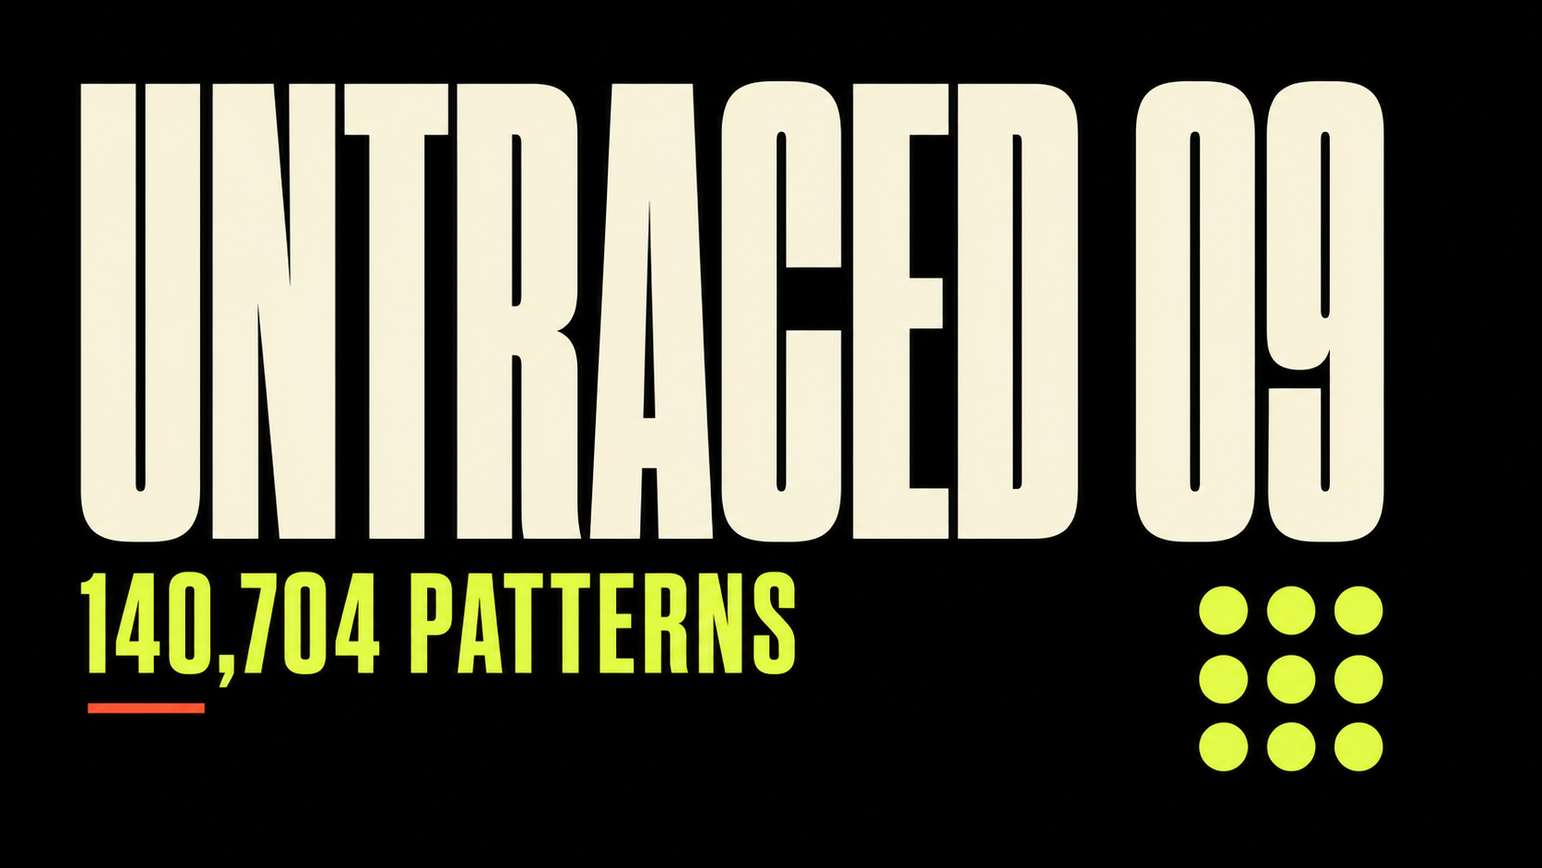
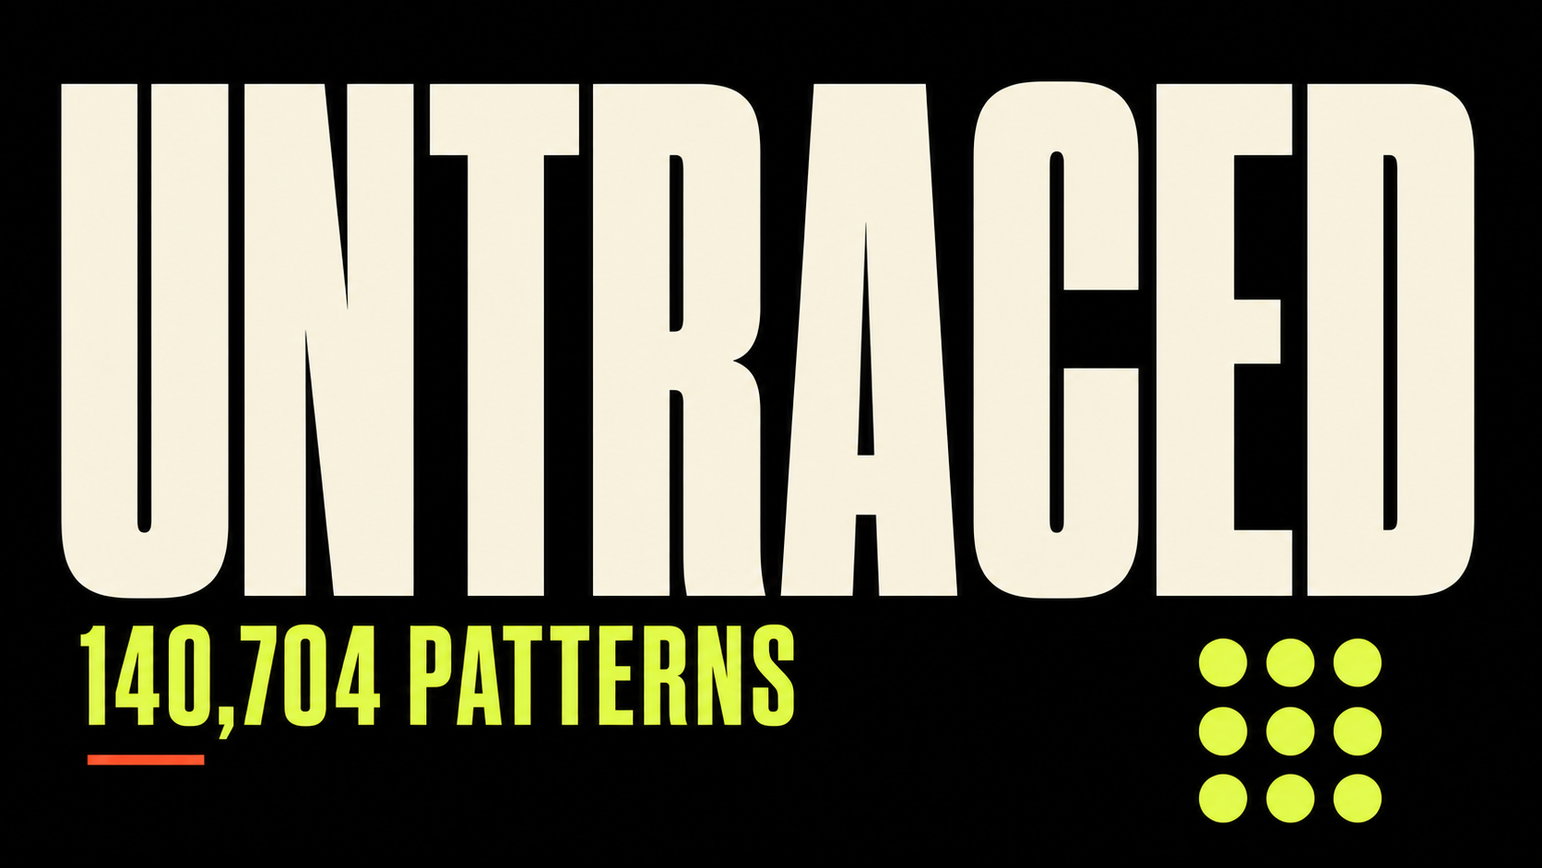
more stuff

Changed region(s): [[0.0311, 0.0925, 0.9641, 0.9554]]

diff --git a/src/components/PatternGame.tsx b/src/components/PatternGame.tsx
@@ -5,6 +5,7 @@ import ShareButton from "./ShareButton";
 import { crossedNodes,formatPercent,requiredMidpoint,type NodeId } from "@/lib/patterns";
 import type { Progress,SubmitResult } from "@/lib/types";
 import styles from "@/app/page.module.css";
+import componentStyles from "./PatternGame.module.css";
 const nodes=[1,2,3,4,5,6,7,8,9] as NodeId[];const pos=(n:number)=>({x:((n-1)%3)*100+50,y:Math.floor((n-1)/3)*100+50});
 function identity(){let id=localStorage.getItem("untraced-player-id");if(!id){id=crypto.randomUUID();localStorage.setItem("untraced-player-id",id)}return id}
 export default function PatternGame({initialProgress}:Readonly<{initialProgress:Progress}>){
@@ -21,9 +22,9 @@ export default function PatternGame({initialProgress}:Readonly<{initialProgress:
  const reset=()=>{routeRef.current=[];setRoute([]);setPointer(null);setResult(null);setFailed(false);setStatus("Start on any dot.")};const points=route.map(n=>pos(n));
  return <main className={styles.shell}><Header/><section className={styles.game} aria-labelledby="game-title">
   <div className={styles.progressBlock}><p className={styles.eyebrow}>{progress.completedAt?"Complete":"Found worldwide"}</p><p className={styles.count}><strong>{progress.discovered.toLocaleString()}</strong><span> / 140,704</span></p><p className={styles.percent}>{formatPercent(progress.discovered)}</p><div className={styles.traceProgress} style={{"--progress":`${progress.discovered/140704*100}%`} as React.CSSProperties} role="progressbar" aria-valuemin={0} aria-valuemax={140704} aria-valuenow={progress.discovered}/></div>
-  <div className={styles.instrument}><div className={styles.prompt}>{result?<><p className={styles.resultLabel}>{result.isNewDiscovery?"NEW":"ALREADY FOUND"}</p><h1 id="game-title">{result.isNewDiscovery?`You found #${result.ordinal?.toLocaleString()}`:`Seen ${result.submissionCount.toLocaleString()} ${result.submissionCount===1?"time":"times"}`}</h1><p>{result.isNewDiscovery?"Nobody entered this pattern before you.":result.personallySubmittedBefore?"You’ve entered this one before.":`First entered ${new Intl.DateTimeFormat(undefined,{dateStyle:"medium",timeStyle:"short"}).format(new Date(result.firstDiscoveredAt))}.`}</p></>:<><h1 id="game-title">Draw all nine.</h1><p>Release to check your pattern.</p></>}</div>
-   <div ref={surface} className={`${styles.grid} ${sending?styles.sending:""}`} role="application" aria-label="Nine-dot pattern grid" onPointerMove={move} onPointerUp={end} onPointerCancel={end} onContextMenu={e=>e.preventDefault()}><svg viewBox="0 0 300 300" aria-hidden="true"><polyline points={points.map(p=>`${p.x},${p.y}`).join(" ")}/>{drawing&&pointer&&points.length>0&&<line x1={points.at(-1)!.x} y1={points.at(-1)!.y} x2={pointer.x} y2={pointer.y}/>}</svg>{nodes.map(id=><button key={id} type="button" className={route.includes(id)?styles.dotActive:styles.dot} aria-label={`Dot ${id}${route.includes(id)?`, position ${route.indexOf(id)+1}`:""}`} onPointerDown={e=>start(e,id)} onClick={e=>{if(!drawing&&e.detail===0)keyboard(id)}}><span>{route.indexOf(id)+1||""}</span></button>)}</div>
-   <div className={styles.actions}>{result?<><button className={styles.primary} onClick={reset}>Go again</button><ShareButton shareId={result.shareId!} isNew={result.isNewDiscovery} ordinal={result.ordinal}/></>:failed?<><button className={styles.primary} disabled={sending} onClick={()=>void submitRoute()}>Retry</button><button onClick={reset}>Clear</button></>:route.length===9&&!drawing?<button className={styles.primary} disabled={sending} onClick={()=>void submitRoute()}>{sending?"Checking…":"Submit"}</button>:route.length>0&&!drawing?<button onClick={reset}>Clear</button>:null}<button aria-pressed={muted} onClick={()=>{const next=!muted;setMuted(next);localStorage.setItem("untraced-muted",String(next))}}>{muted?"Sound off":"Sound on"}</button></div>
+  <div className={styles.instrument}><div className={styles.prompt}>{result?<><p className={styles.resultLabel}>{result.isNewDiscovery?"NEW":"ALREADY FOUND"}</p><h1 id="game-title">{result.isNewDiscovery?`You found #${result.ordinal?.toLocaleString()}`:`Seen ${result.submissionCount.toLocaleString()} ${result.submissionCount===1?"time":"times"}`}</h1><p>{result.isNewDiscovery?"Nobody entered this pattern before you.":result.personallySubmittedBefore?"You’ve entered this one before.":`First entered ${new Intl.DateTimeFormat(undefined,{dateStyle:"medium",timeStyle:"short"}).format(new Date(result.firstDiscoveredAt))}.`}</p></>:<><h1 id="game-title">Draw a line through all nine.</h1><p>Release to check your pattern.</p></>}</div>
+   <div ref={surface} className={`${styles.grid} ${componentStyles.cleanGrid} ${sending?styles.sending:""}`} role="application" aria-label="Nine-dot pattern grid" onPointerMove={move} onPointerUp={end} onPointerCancel={end} onContextMenu={e=>e.preventDefault()}><svg viewBox="0 0 300 300" aria-hidden="true"><polyline points={points.map(p=>`${p.x},${p.y}`).join(" ")}/>{drawing&&pointer&&points.length>0&&<line x1={points.at(-1)!.x} y1={points.at(-1)!.y} x2={pointer.x} y2={pointer.y}/>}</svg>{nodes.map(id=><button key={id} type="button" className={route.includes(id)?styles.dotActive:styles.dot} aria-label={`Dot ${id}${route.includes(id)?`, position ${route.indexOf(id)+1}`:""}`} onPointerDown={e=>start(e,id)} onClick={e=>{if(!drawing&&e.detail===0)keyboard(id)}}><span>{route.indexOf(id)+1||""}</span></button>)}</div>
+   <div className={styles.actions}>{result?<><button className={styles.primary} onClick={reset}>Go again</button><ShareButton shareId={result.shareId!} route={route} isNew={result.isNewDiscovery} ordinal={result.ordinal} submissionCount={result.submissionCount} streak={result.personal.currentStreak} isRepeat={result.personallySubmittedBefore}/></>:failed?<><button className={styles.primary} disabled={sending} onClick={()=>void submitRoute()}>Retry</button><button onClick={reset}>Clear</button></>:route.length===9&&!drawing?<button className={styles.primary} disabled={sending} onClick={()=>void submitRoute()}>{sending?"Checking…":"Submit"}</button>:route.length>0&&!drawing?<button onClick={reset}>Clear</button>:null}<button aria-pressed={muted} onClick={()=>{const next=!muted;setMuted(next);localStorage.setItem("untraced-muted",String(next))}}>{muted?"Sound off":"Sound on"}</button></div>
    <p className="srOnly" aria-live="polite">{status}</p>
   </div>
   <aside className={styles.note}><span>Still missing</span><strong>{progress.discovered===0?"All 140,704":progress.discovered===140704?"Nothing":(140704-progress.discovered).toLocaleString()}</strong><p>Visit each dot once. Crossed midpoints register automatically. Reversing a pattern counts as a different answer.</p></aside>

diff --git a/src/components/ShareButton.tsx b/src/components/ShareButton.tsx
@@ -1,3 +1,8 @@
 "use client";
-import { useState } from "react";
-export default function ShareButton({shareId,isNew,ordinal}:Readonly<{shareId:string;isNew:boolean;ordinal:number|null}>){const[copied,setCopied]=useState(false);const share=async()=>{const url=`${location.origin}/s/${shareId}`,text=isNew?`I found pattern #${ordinal?.toLocaleString()} on UNTRACED 09.`:"My UNTRACED 09 result.";try{if(navigator.share)await navigator.share({title:"UNTRACED 09",text,url});else{await navigator.clipboard.writeText(url);setCopied(true);setTimeout(()=>setCopied(false),1800)}}catch{}};return <button onClick={()=>void share()}>{copied?"Link copied":"Share result"}</button>}
+import { useEffect,useRef,useState } from "react";
+import Image from "next/image";
+import styles from "./ShareButton.module.css";
+type Props={shareId:string;route:number[];isNew:boolean;ordinal:number|null;submissionCount:number;streak:number;isRepeat:boolean};
+const keys=["1⃣","2⃣","3⃣","4⃣","5⃣","6⃣","7⃣","8⃣","9⃣"];
+function shareText(p:Props){const order=new Map(p.route.map((dot,index)=>[dot,keys[index]]));const grid=[1,2,3,4,5,6,7,8,9].map(dot=>order.get(dot)??"▫").reduce<string[]>((rows,item,index)=>{const row=Math.floor(index/3);rows[row]=(rows[row]??"")+(index%3?"  ":"")+item;return rows},[]).join("\n");const achievements=[p.isNew?`🏆 First finder · #${p.ordinal?.toLocaleString()}`:`🔎 Seen ${p.submissionCount.toLocaleString()} ${p.submissionCount===1?"time":"times"}`,p.streak>1?`🔥 ${p.streak}-find streak`:null,p.isRepeat?"↩ Personal repeat":null].filter(Boolean).join(" · ");return `UNTRACED\n\n${grid}\n\n${achievements}\n\n${location.origin}/s/${p.shareId}`}
+export default function ShareButton(props:Readonly<Props>){const[open,setOpen]=useState(false),[notice,setNotice]=useState("");const dialog=useRef<HTMLDialogElement>(null);useEffect(()=>{const el=dialog.current;if(open&&!el?.open)el?.showModal();if(!open&&el?.open)el.close()},[open]);const flash=(message:string)=>{setNotice(message);setTimeout(()=>setNotice(""),1800)};const copyText=async()=>{try{await navigator.clipboard.writeText(shareText(props));flash("Text copied")}catch{flash("Couldn’t copy")}};const copyImage=async()=>{try{const response=await fetch(`/api/share/${props.shareId}/image`),blob=await response.blob();if(typeof ClipboardItem!=="undefined"&&navigator.clipboard?.write){await navigator.clipboard.write([new ClipboardItem({"image/png":blob})]);flash("Image copied");return}const url=URL.createObjectURL(blob),a=document.createElement("a");a.href=url;a.download="untraced-pattern.png";a.click();URL.revokeObjectURL(url);flash("Image downloaded")}catch{flash("Couldn’t copy image")}};return <><button onClick={()=>setOpen(true)}>Share result</button><dialog ref={dialog} className={styles.dialog} onClose={()=>setOpen(false)} onClick={e=>{if(e.target===e.currentTarget)setOpen(false)}} aria-labelledby="share-title"><div className={styles.card}><button className={styles.close} aria-label="Close share options" onClick={()=>setOpen(false)}>×</button><p className={styles.eyebrow} id="share-title">Share result</p><div className={styles.imagePreview}><Image unoptimized width={1200} height={630} src={`/api/share/${props.shareId}/image`} alt="Share image preview of this UNTRACED pattern"/></div><div className={styles.actions}><button className={styles.action} onClick={()=>void copyText()}>Copy text</button><button className={styles.action} onClick={()=>void copyImage()}>Copy image</button></div><p className={styles.notice} aria-live="polite">{notice}</p></div></dialog></>}

diff --git a/src/app/s/[id]/page.tsx b/src/app/s/[id]/page.tsx
@@ -1,4 +1,4 @@
 import type { Metadata } from "next";import Link from "next/link";import { notFound } from "next/navigation";import Header from "@/components/Header";import MiniPattern from "@/components/MiniPattern";import { getSharedResult } from "@/server/shares";import content from "../../content.module.css";import styles from "./share.module.css";
 type Props={params:Promise<{id:string}>};export const dynamic="force-dynamic";
-export async function generateMetadata({params}:Props):Promise<Metadata>{const{id}=await params,result=await getSharedResult(id);if(!result)return{title:"Result not found",openGraph:{images:[]},twitter:{images:[]}};const description=result.wasFirstDiscovery?`First to find pattern #${result.discoveryOrdinal.toLocaleString()} on UNTRACED 09.`:`This pattern had been entered ${result.routeSubmissionCount.toLocaleString()} times.`;return{title:result.wasFirstDiscovery?`Pattern #${result.discoveryOrdinal.toLocaleString()}`:"Shared result",description,openGraph:{title:"UNTRACED 09",description,images:[]},twitter:{card:"summary",title:"UNTRACED 09",description,images:[]}}}
+export async function generateMetadata({params}:Props):Promise<Metadata>{const{id}=await params,result=await getSharedResult(id);if(!result)return{title:"Result not found",openGraph:{images:[]},twitter:{images:[]}};const description=result.wasFirstDiscovery?`First to find pattern #${result.discoveryOrdinal.toLocaleString()} on UNTRACED.`:`This pattern had been entered ${result.routeSubmissionCount.toLocaleString()} times.`,image=`/api/share/${id}/image`;return{title:result.wasFirstDiscovery?`Pattern #${result.discoveryOrdinal.toLocaleString()}`:"Shared result",description,openGraph:{title:"UNTRACED",description,images:[{url:image,width:1200,height:630,alt:"UNTRACED pattern result"}]},twitter:{card:"summary_large_image",title:"UNTRACED",description,images:[image]}}}
 export default async function SharedPage({params}:Props){const{id}=await params,result=await getSharedResult(id);if(!result)notFound();return <main className={content.shell}><Header/><header className={content.hero}><p className={content.kicker}>{result.wasFirstDiscovery?"First discovery":"Shared result"}</p><h1>{result.wasFirstDiscovery?`Pattern #${result.discoveryOrdinal.toLocaleString()}`:"Already found"}</h1><p>{result.wasFirstDiscovery?`${result.firstDiscovererName||"Anonymous"} found this pattern first.`:`It had ${result.routeSubmissionCount.toLocaleString()} ${result.routeSubmissionCount===1?"entry":"entries"} when this result was saved.`}</p></header><section className={styles.result}><div className={styles.pattern}><MiniPattern route={result.route} label="Shared nine-dot pattern"/></div><div className={styles.achievements}><p className={content.kicker}>Result details</p>{result.wasFirstDiscovery&&<div><span>Achievement</span><strong>First finder</strong></div>}<div><span>Global number</span><strong>#{result.discoveryOrdinal.toLocaleString()}</strong></div><div><span>Entries at the time</span><strong>{result.routeSubmissionCount.toLocaleString()}</strong></div>{result.personalStreak>1&&<div><span>New-find streak</span><strong>{result.personalStreak}</strong></div>}{result.personallySubmittedBefore&&<div><span>Personal history</span><strong>Repeat</strong></div>}<p>{new Intl.DateTimeFormat("en",{dateStyle:"long",timeStyle:"short"}).format(new Date(result.submittedAt))}</p></div></section><Link className={styles.playLink} href="/">Try a pattern</Link></main>}

diff --git a/e2e/game.spec.ts b/e2e/game.spec.ts
@@ -1,4 +1,4 @@
 import { expect,test } from "@playwright/test";
-test("home exposes the core pattern surface and keyboard entry",async({page})=>{await page.goto("/",{waitUntil:"domcontentloaded"});await expect(page.getByRole("heading",{name:"Draw all nine."})).toBeVisible();await expect(page.getByRole("application",{name:"Nine-dot pattern grid"})).toBeVisible();await page.getByRole("button",{name:/Dot 1/}).focus();await page.keyboard.press("Enter");await expect(page.getByRole("button",{name:/Dot 1, position 1/})).toBeVisible()});
-test("incomplete pointer entry clears without submission",async({page})=>{await page.goto("/",{waitUntil:"domcontentloaded"});const dot=page.getByRole("button",{name:/Dot 1/});const box=await dot.boundingBox();await page.mouse.move(box!.x+box!.width/2,box!.y+box!.height/2);await page.mouse.down();await page.mouse.up();await expect(page.getByRole("heading",{name:"Draw all nine."})).toBeVisible()});
-test("global, personal, and rules views are reachable",async({page})=>{await page.goto("/record",{waitUntil:"domcontentloaded"});await expect(page.getByRole("heading",{name:/patterns found/})).toBeVisible();await page.goto("/you",{waitUntil:"domcontentloaded"});await expect(page.getByRole("heading",{name:"Your numbers."})).toBeVisible();await page.goto("/about",{waitUntil:"domcontentloaded"});await expect(page.getByRole("heading",{name:/possible answers/})).toBeVisible()});
+test("home exposes the core pattern surface and keyboard entry",async({page})=>{await page.goto("/",{waitUntil:"domcontentloaded"});await expect(page.getByRole("heading",{name:"Draw a line through all nine."})).toBeVisible();await expect(page.getByRole("application",{name:"Nine-dot pattern grid"})).toBeVisible();await page.getByRole("button",{name:/Dot 1/}).focus();await page.keyboard.press("Enter");await expect(page.getByRole("button",{name:/Dot 1, position 1/})).toBeVisible()});
+test("incomplete pointer entry clears without submission",async({page})=>{await page.goto("/",{waitUntil:"domcontentloaded"});const dot=page.getByRole("button",{name:/Dot 1/});const box=await dot.boundingBox();await page.mouse.move(box!.x+box!.width/2,box!.y+box!.height/2);await page.mouse.down();await page.mouse.up();await expect(page.getByRole("heading",{name:"Draw a line through all nine."})).toBeVisible()});
+test("global, personal, and rules views are reachable",async({page})=>{await page.goto("/record",{waitUntil:"domcontentloaded"});await expect(page.getByRole("heading",{name:/patterns found/})).toBeVisible();await page.goto("/you",{waitUntil:"domcontentloaded"});await expect(page.getByRole("heading",{name:"Your numbers."})).toBeVisible();await page.goto("/about",{waitUntil:"domcontentloaded"});await expect(page.getByRole("heading",{name:/Find a new pattern/})).toBeVisible()});

diff --git a/src/app/api/share/[id]/image/route.tsx b/src/app/api/share/[id]/image/route.tsx
@@ -1,0 +1,4 @@
+import {ImageResponse} from "next/og";
+import {getSharedResult} from "@/server/shares";
+export const runtime="nodejs";export const dynamic="force-dynamic";
+export async function GET(_request:Request,{params}:RouteContext<"/api/share/[id]/image">){const{id}=await params,result=await getSharedResult(id);if(!result)return new Response("Not found",{status:404});const positions=result.route.map((dot,index)=>({dot,index,x:160+((dot-1)%3)*185,y:112+Math.floor((dot-1)/3)*185})),achievement=result.wasFirstDiscovery?`FIRST FINDER  ·  #${result.discoveryOrdinal.toLocaleString()}`:`SEEN ${result.routeSubmissionCount.toLocaleString()} ${result.routeSubmissionCount===1?"TIME":"TIMES"}`;return new ImageResponse(<div style={{width:"100%",height:"100%",display:"flex",background:"#0d0d0b",color:"#f4f0e6",fontFamily:"Arial",padding:"54px 62px",position:"relative"}}><div style={{position:"absolute",left:62,top:45,fontSize:23,fontWeight:900,letterSpacing:7}}>UNTRACED</div><div style={{position:"absolute",left:62,bottom:52,display:"flex",flexDirection:"column"}}><div style={{color:"#d8ff45",fontSize:20,fontWeight:800,letterSpacing:3}}>YOUR ROUTE</div><div style={{fontSize:42,fontWeight:900,marginTop:9}}>{achievement}</div>{result.personalStreak>1&&<div style={{color:"#aaa99f",fontSize:20,marginTop:9}}>🔥 {result.personalStreak}-find streak</div>}</div><div style={{position:"absolute",right:69,top:44,width:590,height:590,border:"1px solid #35372f",background:"#11120f"}}>{positions.slice(1).map((p,i)=>{const prev=positions[i],dx=p.x-prev.x,dy=p.y-prev.y,length=Math.sqrt(dx*dx+dy*dy),angle=Math.atan2(dy,dx)*180/Math.PI;return <div key={`l${p.dot}`} style={{position:"absolute",left:prev.x,top:prev.y,width:length,height:6,background:"#ff6047",transformOrigin:"0 50%",transform:`rotate(${angle}deg)`,borderRadius:9}}/>})}{positions.map(p=><div key={p.dot} style={{position:"absolute",left:p.x-24,top:p.y-24,width:48,height:48,borderRadius:48,background:"#d8ff45",color:"#0d0d0b",border:"8px solid #0d0d0b",display:"flex",alignItems:"center",justifyContent:"center",fontSize:17,fontWeight:900}}>{p.index+1}</div>)}</div><div style={{position:"absolute",left:62,top:136,width:280,fontSize:68,fontWeight:900,lineHeight:.91,letterSpacing:-4}}>ONE LINE.<br/>NINE DOTS.</div><div style={{position:"absolute",left:62,top:333,width:260,height:8,background:"#ff6047"}}/></div>,{width:1200,height:630,headers:{"Cache-Control":"public, max-age=31536000, immutable"}})}

diff --git a/src/app/about/page.tsx b/src/app/about/page.tsx
@@ -1,2 +1,2 @@
-import type { Metadata } from "next";import Header from "@/components/Header";import styles from "../content.module.css";export const metadata:Metadata={title:"Rules"};
-export default function About(){return <main className={styles.shell}><Header/><header className={styles.hero}><p className={styles.kicker}>How it works</p><h1>140,704 possible answers.</h1><p>Draw a valid nine-dot pattern. The database tells you whether it’s new.</p></header><section className={styles.section}><h2>Rules</h2><p>Start anywhere. Visit all nine dots once. If a move crosses the middle of a row, column, or long diagonal, that middle dot must already be active. The board handles this automatically.</p><p>Direction matters. Reverse, rotated, and reflected patterns are separate answers.</p></section><section className={styles.section}><h2>Data</h2><p>No account is required. A random browser ID tracks your totals, and your personal history stays in local storage. The server keeps accepted entries and an optional nickname. No fingerprinting, location, email, or advertising IDs.</p></section><section className={styles.section}><h2>No answer key</h2><p>Missing patterns are never published. You only learn whether an entry is new after submitting all nine dots.</p></section></main>}
+import type { Metadata } from "next";import Header from "@/components/Header";import content from "../content.module.css";import styles from "./about.module.css";export const metadata:Metadata={title:"Rules"};
+export default function About(){return <main className={content.shell}><Header/><header className={content.hero}><p className={content.kicker}>Rules</p><h1>Find a new pattern.</h1><p>There are 140,704 valid answers.</p></header><section className={styles.rules}><ul><li>Start on any dot.</li><li>Drag through all nine dots.</li><li>Use each dot only once.</li><li>Crossing an unused middle dot selects it automatically.</li><li>Release after all nine dots are selected.</li></ul><p>Reversed, rotated, and reflected patterns count as different answers.</p></section><aside className={styles.note}><strong>Privacy</strong><span>No account or device fingerprinting. Your browser stores a random ID and local history.</span></aside></main>}

diff --git a/src/components/ShareButton.module.css b/src/components/ShareButton.module.css
@@ -1,0 +1,1 @@
+.dialog{width:min(430px,calc(100vw - 28px));margin:auto;border:1px solid var(--rule);background:#11120f;color:var(--paper);padding:0;box-shadow:0 24px 70px #000c}.dialog::backdrop{background:#070806c9;backdrop-filter:blur(5px)}.card{position:relative;padding:20px}.close{position:absolute;right:13px;top:9px;border:0;background:none;color:var(--muted);font-size:1.55rem;line-height:1;cursor:pointer}.eyebrow{color:var(--accent);font-size:.62rem;font-weight:900;letter-spacing:.2em;text-transform:uppercase;margin-bottom:14px}.imagePreview{aspect-ratio:1200/630;border:1px solid var(--rule);background:var(--ink);overflow:hidden;display:flex;align-items:center}.imagePreview img{display:block;width:100%;height:100%;object-fit:contain}.actions{display:grid;grid-template-columns:1fr 1fr;gap:8px;margin-top:10px}.action{border:0!important;background:var(--accent)!important;color:var(--ink)!important;padding:11px 10px!important;font-size:.62rem!important;font-weight:900!important;text-transform:uppercase;letter-spacing:.12em;cursor:pointer}.notice{height:15px;margin-top:8px;color:var(--accent);font-size:.65rem;text-align:center}@media(max-width:430px){.card{padding:16px}.eyebrow{margin-bottom:11px}.action{padding:10px 8px!important}}

diff --git a/src/app/layout.tsx b/src/app/layout.tsx
@@ -1,5 +1,5 @@
 import type { Metadata } from "next";
 import "./globals.css";
 const origin=process.env.NEXT_PUBLIC_SITE_URL||"http://localhost:3000";
-export const metadata:Metadata={metadataBase:new URL(origin),title:{default:"UNTRACED 09",template:"%s · UNTRACED 09"},description:"Draw a nine-dot pattern and see if anyone found it first.",openGraph:{title:"UNTRACED 09",description:"140,704 patterns. How many are still missing?",images:[{url:"/og.png",width:1536,height:1024}]},twitter:{card:"summary_large_image",title:"UNTRACED 09",description:"140,704 patterns. How many are still missing?",images:["/og.png"]}};
+export const metadata:Metadata={metadataBase:new URL(origin),title:{default:"UNTRACED",template:"%s · UNTRACED"},description:"Draw a nine-dot pattern and see if anyone found it first.",openGraph:{title:"UNTRACED",description:"140,704 patterns. How many are still missing?",images:[{url:"/og.png",width:1536,height:1024}]},twitter:{card:"summary_large_image",title:"UNTRACED",description:"140,704 patterns. How many are still missing?",images:["/og.png"]}};
 export default function RootLayout({children}:Readonly<{children:React.ReactNode}>){return <html lang="en"><body>{children}</body></html>}

diff --git a/src/app/about/about.module.css b/src/app/about/about.module.css
@@ -1,0 +1,1 @@
+.rules{padding:40px 0 30px;border-bottom:1px solid var(--rule);max-width:720px}.rules ul{list-style:none;counter-reset:rule}.rules li{counter-increment:rule;display:grid;grid-template-columns:34px 1fr;align-items:baseline;padding:14px 0;border-bottom:1px solid var(--rule);font-size:1rem}.rules li:before{content:"0" counter(rule);color:var(--accent);font-size:.62rem;font-weight:900;letter-spacing:.08em}.rules p{color:var(--muted);font-size:.78rem;line-height:1.6;margin-top:20px}.note{display:flex;gap:24px;padding:20px 0;color:var(--dim);font-size:.68rem}.note strong{color:var(--paper);text-transform:uppercase;letter-spacing:.12em}.note span{line-height:1.5}@media(max-width:520px){.rules{padding-top:28px}.rules li{font-size:.9rem}.note{display:block}.note span{display:block;margin-top:8px}}

diff --git a/src/components/Header.tsx b/src/components/Header.tsx
@@ -1,2 +1,2 @@
 import Link from "next/link";
-export default function Header(){return <header className="siteHeader"><Link href="/" className="wordmark">UNTRACED<span>09</span></Link><nav aria-label="Primary navigation"><Link href="/record">Global</Link><Link href="/you">Mine</Link><Link href="/about">Rules</Link></nav></header>}
+export default function Header(){return <header className="siteHeader"><Link href="/" className="wordmark">UNTRACED</Link><nav aria-label="Primary navigation"><Link href="/record">Global</Link><Link href="/you">Mine</Link><Link href="/about">Rules</Link></nav></header>}

diff --git a/src/components/PatternGame.module.css b/src/components/PatternGame.module.css
@@ -1,0 +1,1 @@
+.cleanGrid{background:none}
